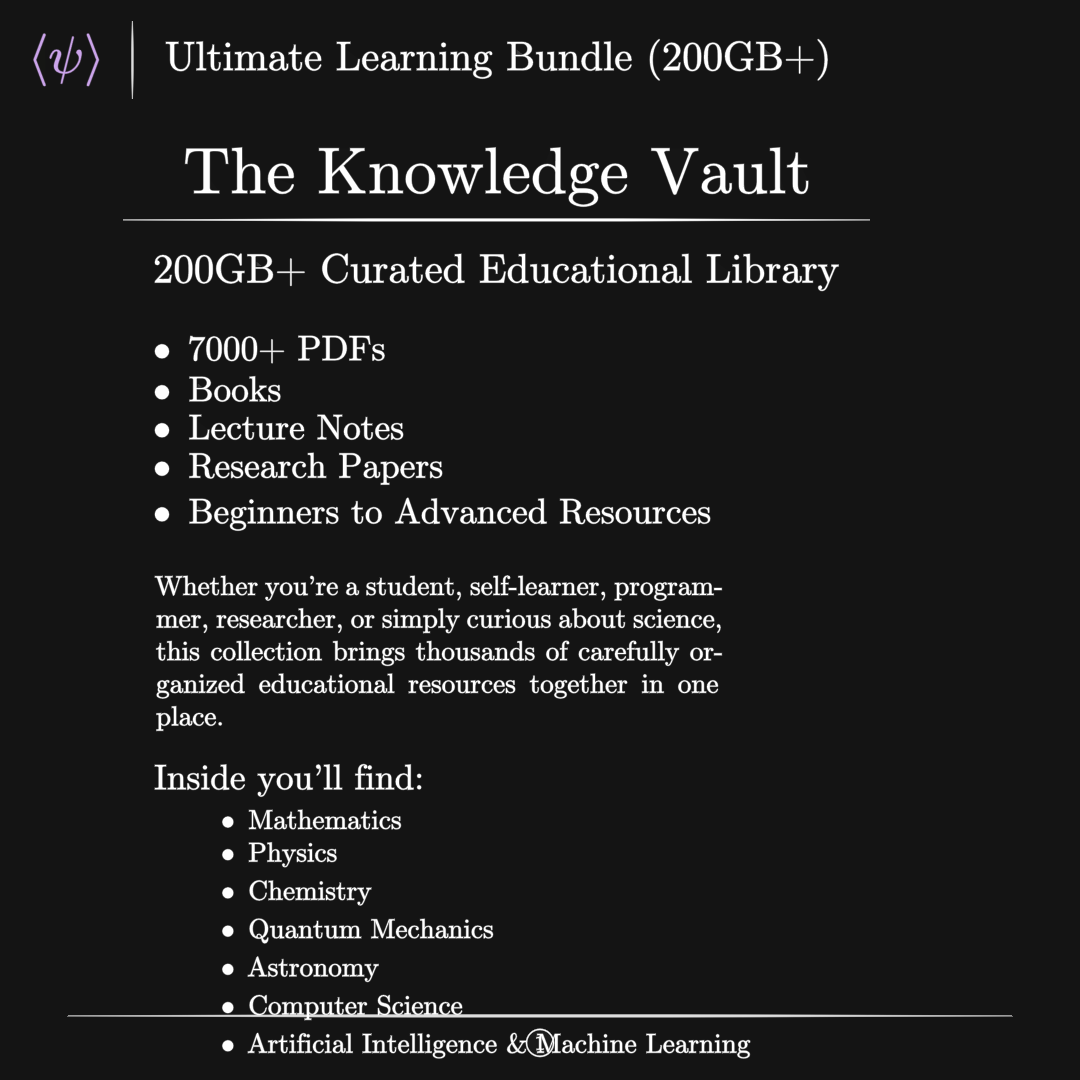
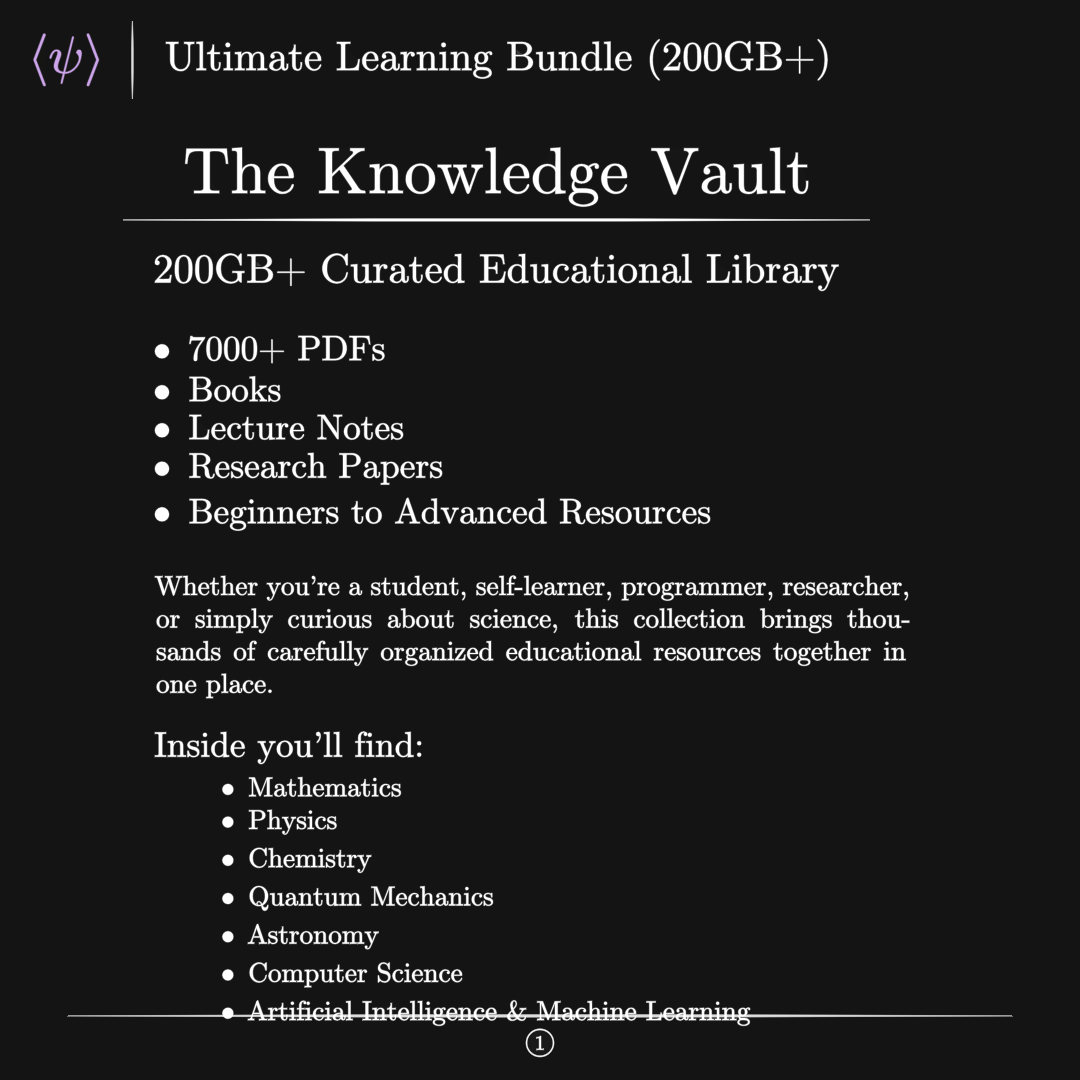
f

Changed region(s): [[0.1222, 0.5194, 0.8556, 0.9778]]

diff --git a/test.py b/test.py
@@ -60,7 +60,7 @@ class Paid(InteractiveScene):
 
         cont2 = TexText(
             R"""
-            \begin{minipage}{0.60\textwidth}
+            \begin{minipage}{0.80\textwidth}
             Whether you're a student, self-learner, programmer,
             researcher, or simply curious about science, this
             collection brings thousands of carefully organized